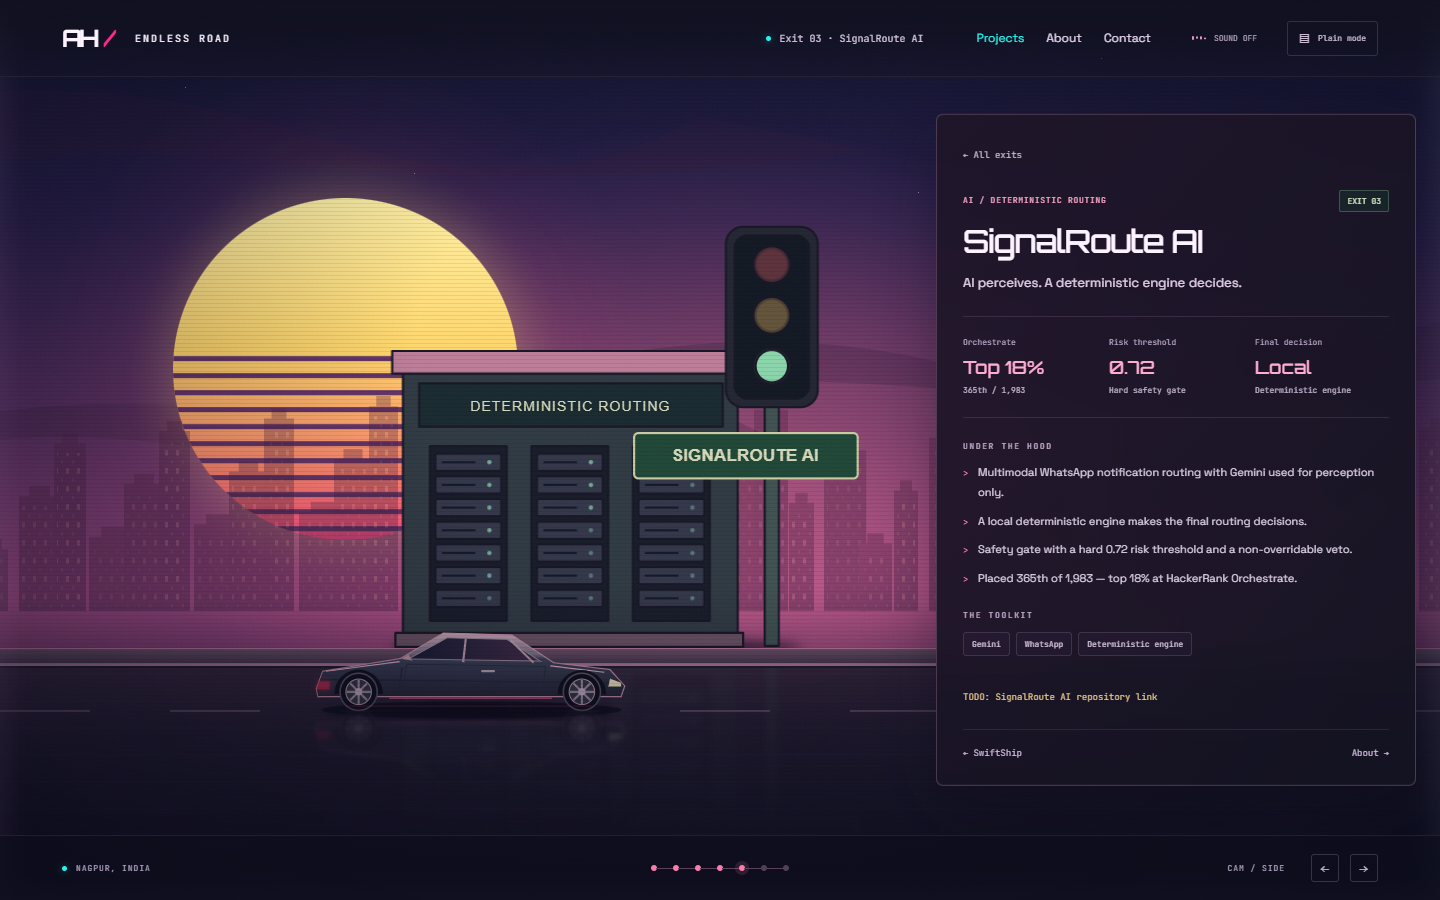
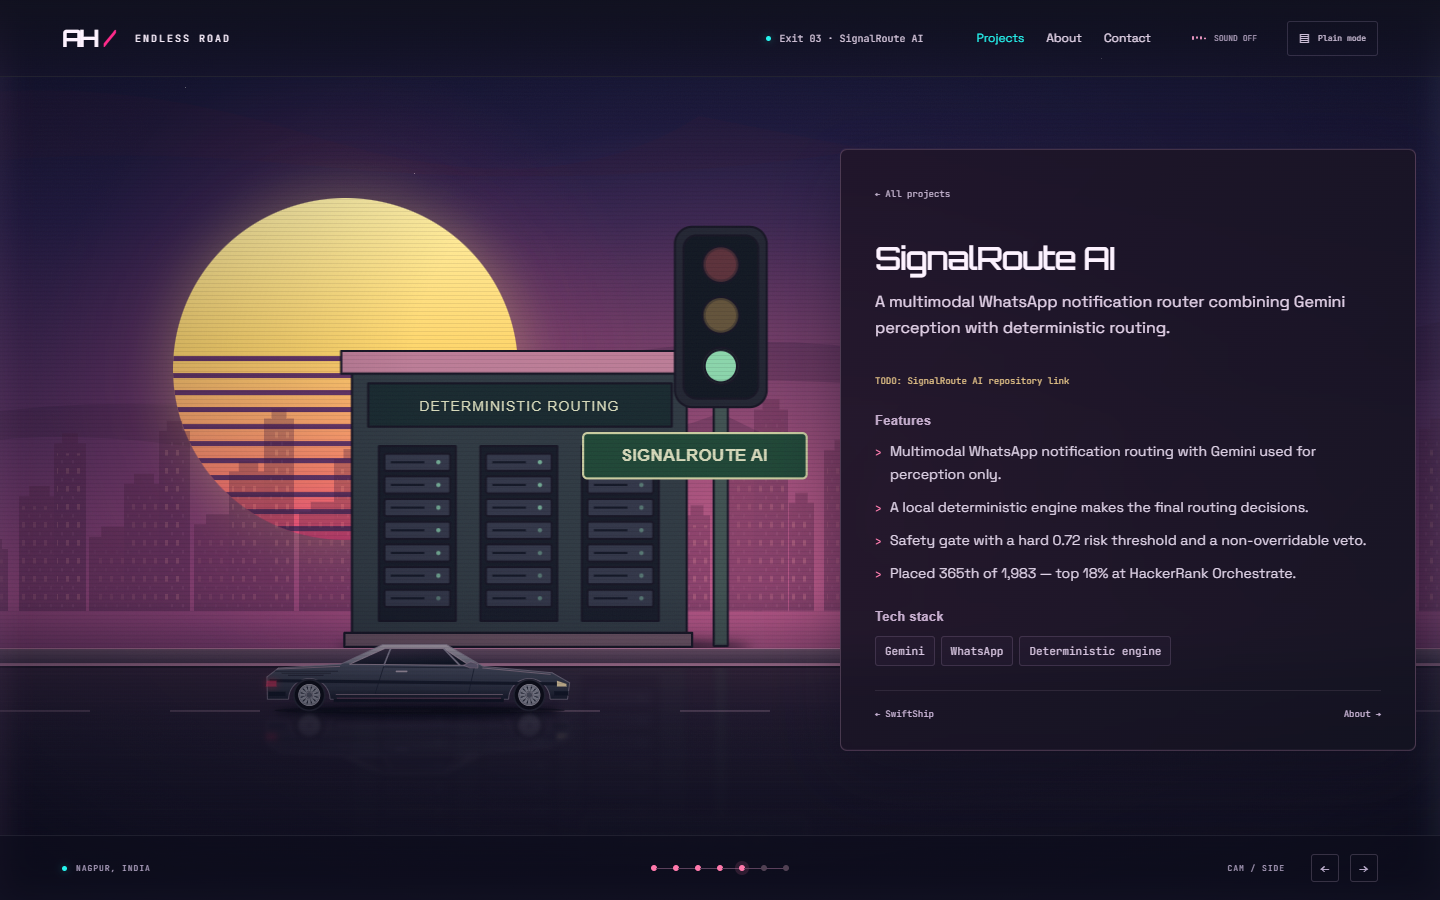
Refresh project redesign screenshots and verification notes

diff --git a/HANDOFF.md b/HANDOFF.md
@@ -16,3 +16,9 @@ Preview: npm run dev on http://127.0.0.1:5173/. Run it before npm run test:stops
 Known limits: no supplied music, final OG image, email, graduation year, résumé, or SignalRoute repository. No measured Lighthouse score or actual Vercel deployment yet. Do not claim either.
 
 No implementation prerequisites remain for the illustrated stops. External inputs listed above are still optional follow-ups. Preserve the user's context/ and assests-src/ folders. Follow AGENTS.md: frequent micro-commits and a push after each commit. See README.md for art regeneration, debug URLs, test commands, and deployment instructions.
+
+## Project presentation update — 2026-11-03
+- Simplified project cards to descriptions, live/source links, features and tech stacks; removed dashboard gauges and exit badges from the shared project body.
+- Enlarged desktop cards and mobile reading area. Redrew the side coupe with a lower roof and turbine wheels.
+- Roomly and SwiftShip doors open their live projects in a new tab; percentage hit areas are configured in `src/data/stops.ts`, with keyboard focus and touch cues.
+- Verified production build and all six Playwright checks, including actual door click destinations on desktop/mobile. Refreshed screenshots.
